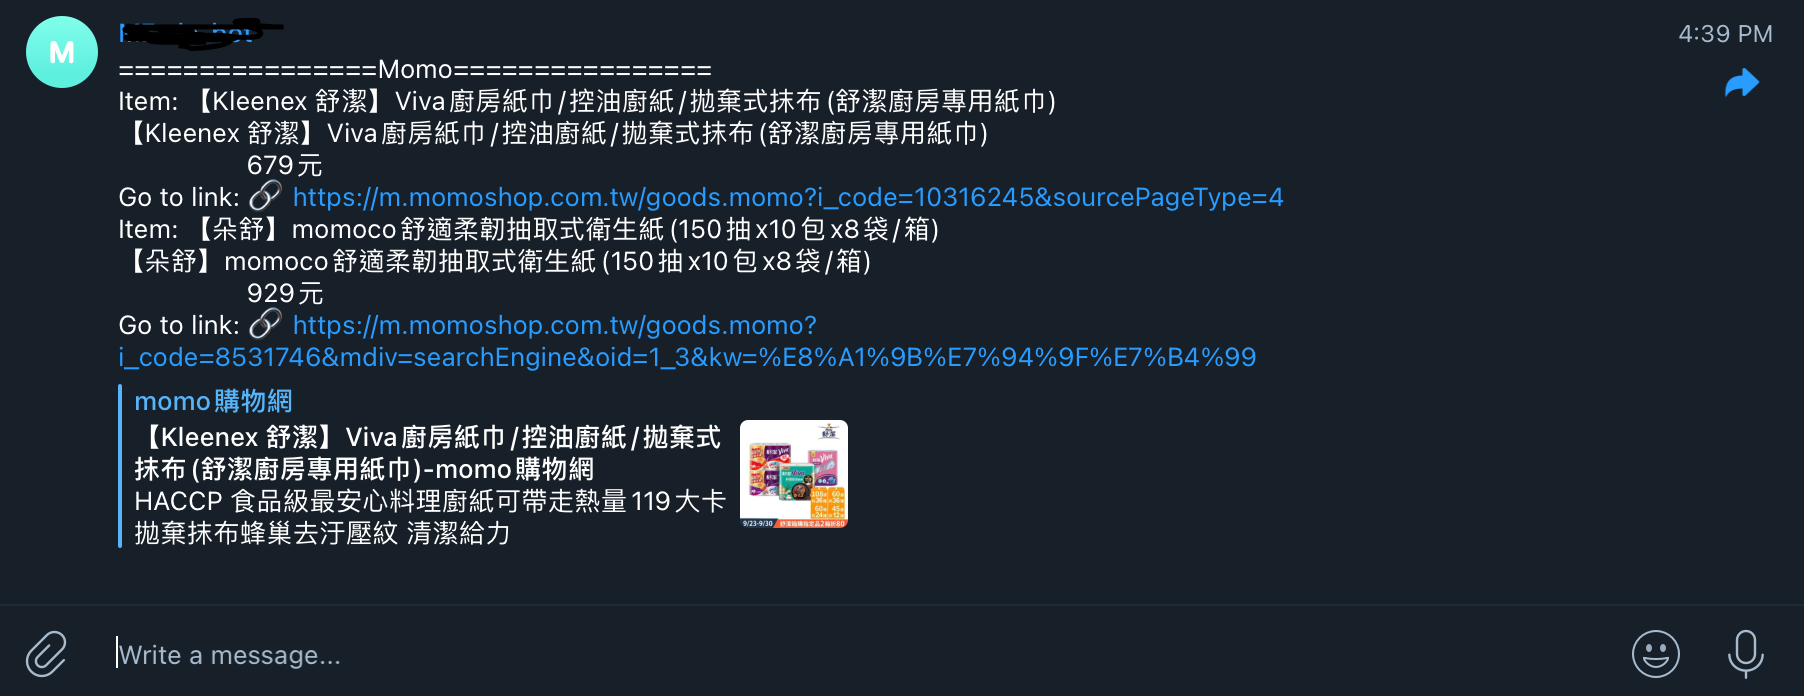
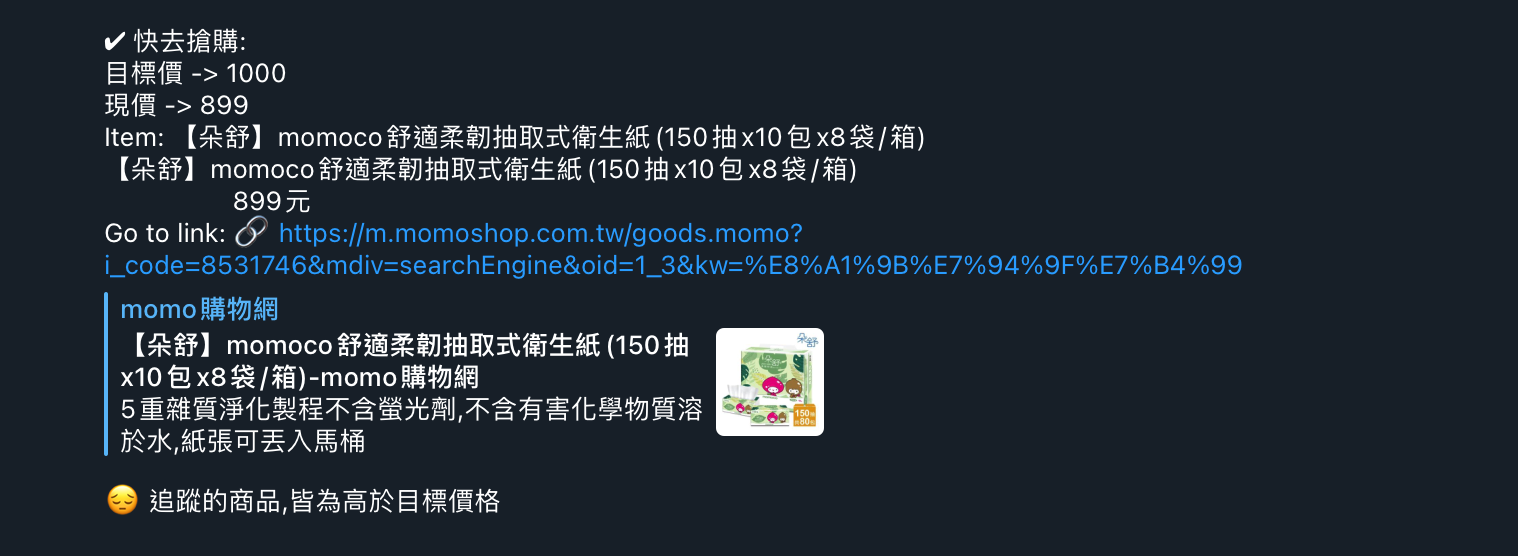
v1.0.2
- MAINT: Change telegram msg info
- ADD: Support crontime
- ADD: Support target price

diff --git a/shop/momo.go b/shop/momo.go
@@ -6,19 +6,24 @@ import (
 	"encoding/json"
 	"fmt"
 	"io/ioutil"
+	"regexp"
 	"os"
+	"strings"
+	"strconv"
 )
 
 type momo_j struct {
 	Momo []struct {
-		Item string
-		Url  string
+		Item         string
+		Url          string
+		Target_price string
 	} `json:"momo"`
 }
 
-func Momo_colly(url string) string {
+func Momo_colly(url string, item string, target_price int) string {
 	momo_c := colly.NewCollector()
-	momo_parser_string := ""
+	momo_parser_string := "Item: " + item + "\n"
+	var parser_price int
 
 	momo_c.OnRequest(func(r *colly.Request) { // iT邦幫忙需要寫這一段 User-Agent才給爬
 		r.Headers.Set("User-Agent", "Mozilla/5.0 (Windows NT 10.0; Win64; x64) AppleWebKit/537.36 (KHTML, like Gecko) Chrome/86.0.4240.75 Safari/537.36")
@@ -30,16 +35,24 @@ func Momo_colly(url string) string {
 	// class use .
 	momo_c.OnHTML(".priceTxtArea", func(price *colly.HTMLElement) {
 		momo_parser_string = momo_parser_string + price.Text + "\n"
+		re := regexp.MustCompile("[0-9]+")
+		parser_price, _ = strconv.Atoi(strings.Join(re.FindAllString(price.Text, -1),""))
 	})
 
 	momo_c.Visit(url)
 	momo_parser_string = momo_parser_string + "Go to link: 🔗 " + url + "\n"
 
+	if parser_price <= target_price {
+		momo_parser_string = "✔ 快去搶購:\n目標價 -> " + strconv.Itoa(target_price) + "\n現價 -> " + strconv.Itoa(parser_price) + "\n" + momo_parser_string
+	} else {
+		momo_parser_string = ""
+	}
+
 	return momo_parser_string
 }
 
 func Momo_parser() string {
-	var momo_string = "================Momo================\n"
+	var momo_string = ""
 	filename := "./url.json"
 	jsonFile, err := os.Open(filename)
 	if err != nil {
@@ -58,9 +71,13 @@ func Momo_parser() string {
 	}
 
 	for ii := range data.Momo {
-		momo_string = momo_string + "Item: " + data.Momo[ii].Item + "\n"
-		momo_string = momo_string + Momo_colly(data.Momo[ii].Url)
+		target_price, _ := strconv.Atoi(data.Momo[ii].Target_price)
+		momo_string = momo_string + Momo_colly(data.Momo[ii].Url, data.Momo[ii].Item, target_price)
 	}
 
-	return momo_string
+	if len(momo_string) > 0 {
+		return momo_string
+	} else {
+		return "😔 追蹤的商品,皆為高於目標價格"
+	}
 }

diff --git a/main.go b/main.go
@@ -14,6 +14,7 @@ import (
 	"time"
 
 	"github.com/joho/godotenv"
+	"github.com/robfig/cron/v3"
 )
 
 func main() {
@@ -25,13 +26,27 @@ func main() {
 	chatID, _   := strconv.ParseInt(os.Getenv("chatID"), 10, 64)
 	yourToken   := os.Getenv("yourToken")
 	Env_Time, _ := strconv.ParseInt(os.Getenv("Timer_Minutes"), 10, 64)
+	crontab_time := os.Getenv("Crontime")
 
-	fmt.Printf("chatID: %d, yourToken: %s, How often to run: %d (Minutes)\n", chatID, yourToken, Env_Time)
-	tChannel := time.NewTimer(time.Duration(Env_Time) * time.Minute)
-	for {
-		tChannel.Reset(time.Duration(Env_Time) * time.Minute)
-		<-tChannel.C
+	if len(crontab_time) > 0 {
+		fmt.Printf("chatID: %d, yourToken: %s, Use crontab: %s \n", chatID, yourToken, crontab_time)
+		c := cron.New()
+		c.AddFunc(crontab_time, func() {
+			momo_data := momo_colly.Momo_parser()
+			bot_service.Telegram_bot_run(chatID, yourToken, momo_data)
+		})
 		momo_data := momo_colly.Momo_parser()
 		bot_service.Telegram_bot_run(chatID, yourToken, momo_data)
-	 }
+		c.Start()
+		select{}
+	} else {
+		fmt.Printf("chatID: %d, yourToken: %s, How often to run: %d (Minutes)\n", chatID, yourToken, Env_Time)
+		tChannel := time.NewTimer(time.Duration(Env_Time) * time.Minute)
+		for {
+			momo_data := momo_colly.Momo_parser()
+			bot_service.Telegram_bot_run(chatID, yourToken, momo_data)
+			tChannel.Reset(time.Duration(Env_Time) * time.Minute)
+			<-tChannel.C
+		}
+	}
 }
